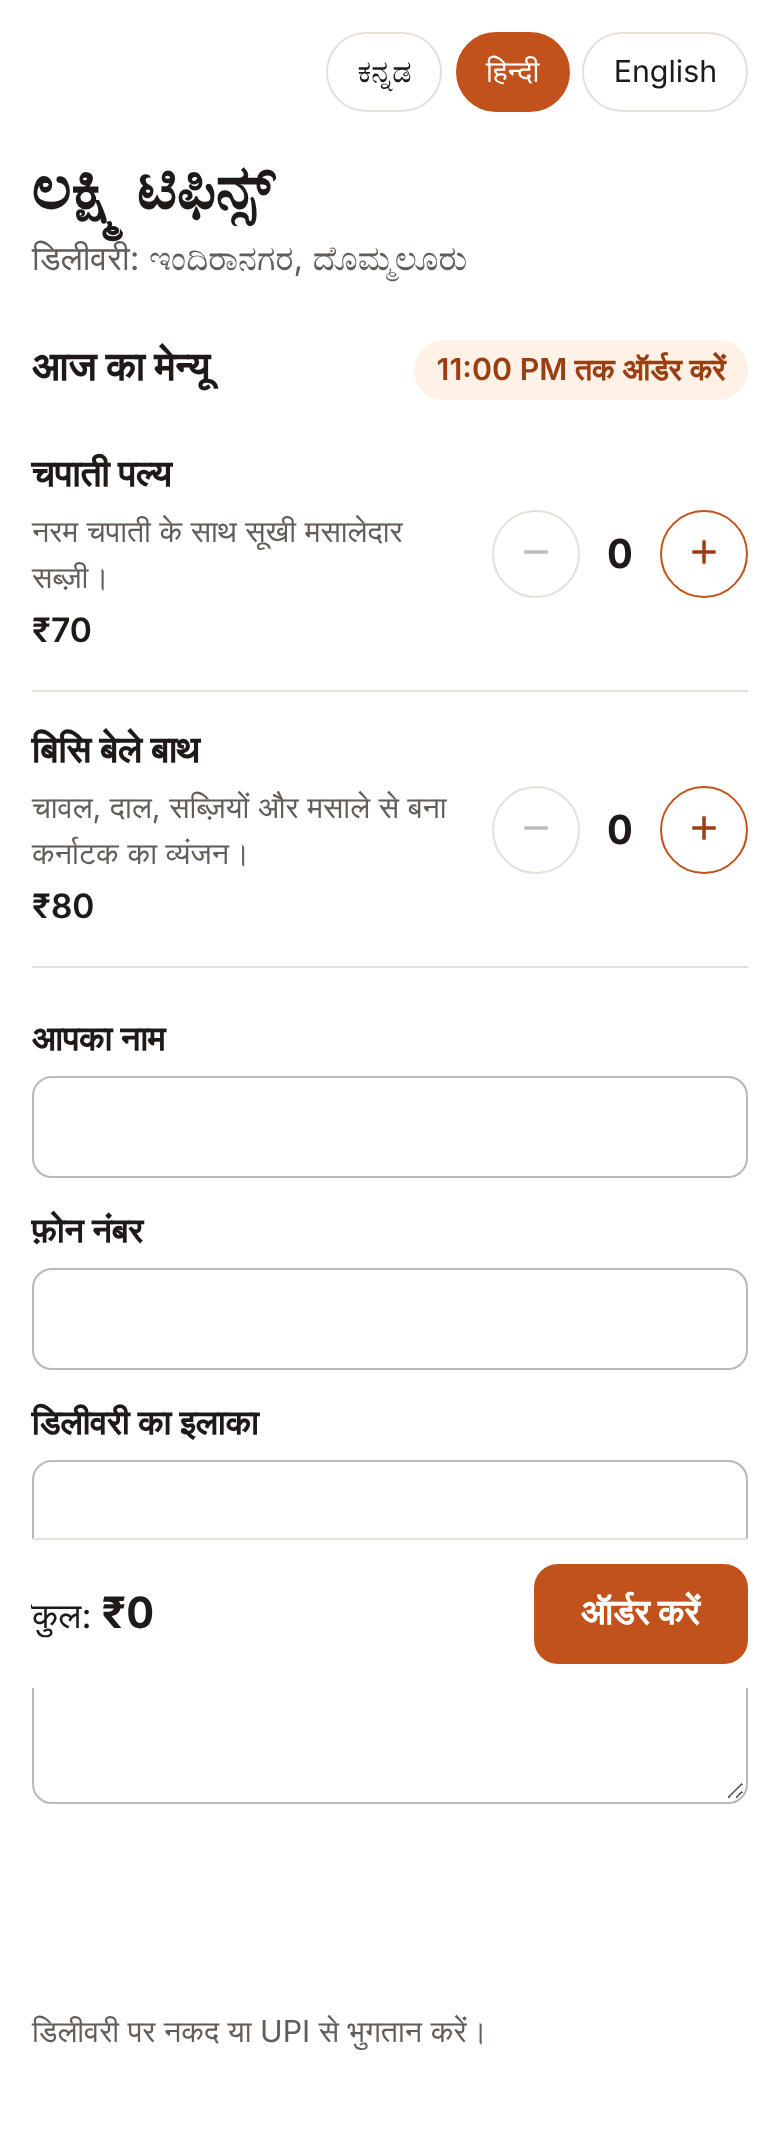
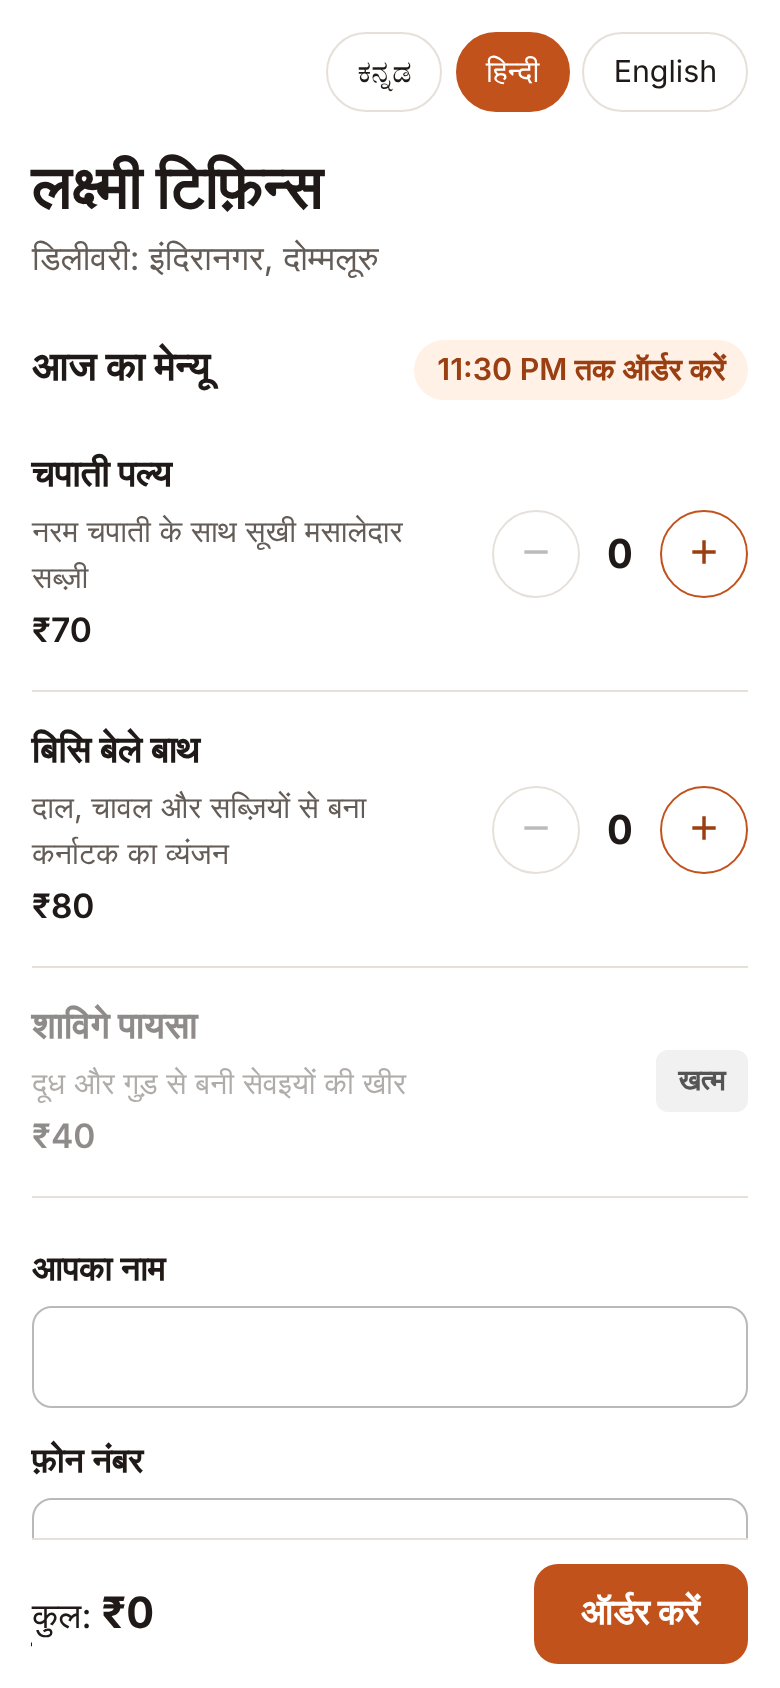
Translate kitchen name and area, add the Lakshmi Tiffins demo seed, fix empty replies
- Kitchen name and delivery area are transliterated into each language when saved
- npm run db:seed-demo: a live kitchen with orders in three languages and a ready owner link
- /owner?t=<token> opens an existing conversation
- Raise the reply budget to 8000 tokens: thinking used up 1024 and long Kannada replies came back empty
- The fallback reply no longer stores two assistant turns in a row

Claude-Session: https://claude.ai/code/session_01JKYxyCnycQzfusRv2axJLg

diff --git a/src/lib/translate.ts b/src/lib/translate.ts
@@ -71,3 +71,52 @@ export async function translateDishes(model: ModelCall, names: string[]): Promis
     return empty;
   }
 }
+
+export type KitchenTranslations = Partial<Record<Lang, { name: string; delivery_area: string }>>;
+
+// The kitchen's name and delivery area, written in each language's script so every customer can read them.
+// Names and place names are transliterated, never translated: "Lakshmi Tiffins" stays Lakshmi Tiffins.
+// On failure it returns {}, and the page shows what the owner said.
+export async function translateKitchen(model: ModelCall, name: string, deliveryArea: string): Promise<KitchenTranslations> {
+  const perLanguage = {
+    type: "object",
+    properties: {
+      name: { type: "string", description: "The kitchen name in this language's script, transliterated." },
+      delivery_area: { type: "string", description: "The delivery areas in this language's script, transliterated, comma separated." },
+    },
+    required: ["name", "delivery_area"],
+  };
+  try {
+    const response = await model({
+      system:
+        "You write a home kitchen's name and delivery areas in other Indian scripts. Transliterate; never translate. " +
+        '"Lakshmi Tiffins" in Hindi is "लक्ष्मी टिफ़िन्स", and "Indiranagar" is "इंदिरानगर". In English, use the usual English spelling.',
+      messages: [{ role: "user", content: `Call save_kitchen_text.\nName: ${name}\nDelivery areas: ${deliveryArea}` }],
+      tools: [
+        {
+          name: "save_kitchen_text",
+          description: "Save the kitchen name and delivery areas in every language.",
+          input_schema: {
+            type: "object",
+            properties: Object.fromEntries(LANGUAGES.map((l) => [l.code, perLanguage])),
+            required: LANGUAGES.map((l) => l.code),
+          },
+        },
+      ],
+      maxTokens: 600,
+    });
+    const call = response.content.find((b) => b.type === "tool_use");
+    const input = (call?.type === "tool_use" ? call.input : null) as Record<string, { name?: unknown; delivery_area?: unknown }> | null;
+    const result: KitchenTranslations = {};
+    for (const { code } of LANGUAGES) {
+      const entry = input?.[code];
+      if (typeof entry?.name === "string" && entry.name.trim() && typeof entry.delivery_area === "string") {
+        result[code] = { name: entry.name.trim().slice(0, 160), delivery_area: entry.delivery_area.trim().slice(0, 255) };
+      }
+    }
+    return result;
+  } catch (error) {
+    console.error("Kitchen translation failed", error);
+    return {};
+  }
+}

diff --git a/src/lib/tools.ts b/src/lib/tools.ts
@@ -4,7 +4,7 @@ import { checkDomain, isValidDomain, registerDomain } from "./godaddy";
 import { LANGUAGES, isLang } from "./i18n";
 import type { ModelCall, ToolDefinition } from "./model";
 import { nowInZone } from "./time";
-import { translateDishes } from "./translate";
+import { translateDishes, translateKitchen } from "./translate";
 
 // A tool is three things: a description Claude reads, a flag saying whether the owner must confirm it,
 // and a plain function that does the work. Claude never touches the database or GoDaddy; it can only
@@ -109,7 +109,11 @@ const createKitchen: Tool = {
     }));
     if (ctx.dryRun) return held({ name, delivery_area: area, capacity_per_day: capacity, dishes });
 
-    const translations = await translateDishes(ctx.model, dishes.map((d) => d.name));
+    // Both translations run at the same time to keep her wait short.
+    const [translations, kitchenText] = await Promise.all([
+      translateDishes(ctx.model, dishes.map((d) => d.name)),
+      translateKitchen(ctx.model, name, area),
+    ]);
 
     const conn = await db().getConnection();
     try {
@@ -122,8 +126,8 @@ const createKitchen: Tool = {
         slug = `${base}-${n}`;
       }
       const [kitchen] = await conn.query<ResultSetHeader>(
-        "INSERT INTO kitchens (slug, name, owner_language, delivery_area, capacity_per_day, status) VALUES (?, ?, ?, ?, ?, 'draft')",
-        [slug, name, input.owner_language, area, capacity],
+        "INSERT INTO kitchens (slug, name, owner_language, delivery_area, translations, capacity_per_day, status) VALUES (?, ?, ?, ?, ?, ?, 'draft')",
+        [slug, name, input.owner_language, area, JSON.stringify(kitchenText), capacity],
       );
       const saved: { menu_item_id: number; name: string; price: number }[] = [];
       for (const [i, dish] of dishes.entries()) {

diff --git a/src/lib/agent.ts b/src/lib/agent.ts
@@ -181,8 +181,11 @@ export async function handleOwnerTurn(token: string | null, turn: OwnerTurn, mod
       messages: convo.messages,
       tools: toolDefinitions,
     });
-    // The API rejects an empty assistant turn, so an empty answer is stored as a short text.
-    convo.messages.push({ role: "assistant", content: response.content.length ? response.content : [{ type: "text", text: "…" }] });
+    // Only text and tool calls count as an answer; thinking alone (for example when Claude runs out of
+    // tokens) is not stored, because the fallback below then closes the turn instead.
+    const answered = response.content.some((b) => (b.type === "text" && b.text) || b.type === "tool_use");
+    if (!answered) break;
+    convo.messages.push({ role: "assistant", content: response.content });
 
     const calls = response.content.filter((b): b is ToolUseBlock => b.type === "tool_use");
     if (calls.length === 0) {
@@ -216,8 +219,14 @@ export async function handleOwnerTurn(token: string | null, turn: OwnerTurn, mod
 
   if (!reply) {
     reply = "Sorry, I could not finish that. Please say it again in a few words.";
-    // Close the conversation on an assistant turn so the next request is valid.
-    convo.messages.push({ role: "assistant", content: [{ type: "text", text: reply }] });
+    // Close the conversation on an assistant turn so the next request is valid, without ever storing two
+    // assistant turns in a row.
+    const last = convo.messages[convo.messages.length - 1];
+    if (last?.role === "assistant" && !last.content.some((b) => b.type === "tool_use")) {
+      last.content = [...last.content, { type: "text", text: reply }];
+    } else {
+      convo.messages.push({ role: "assistant", content: [{ type: "text", text: reply }] });
+    }
     convo.pending = null;
   }
 

diff --git a/src/lib/model.ts b/src/lib/model.ts
@@ -39,13 +39,20 @@ export const callClaude: ModelCall = async (request) => {
   client ??= new Anthropic(); // reads ANTHROPIC_API_KEY from the environment
   const response = await client.messages.create({
     model: process.env.CLAUDE_MODEL ?? "claude-sonnet-5-5",
-    max_tokens: request.maxTokens ?? 1024,
+    // The budget covers Claude's thinking as well as its reply. 1024 was too small: a long cooking list
+    // in Kannada ran out after the thinking, and the reply came back empty.
+    max_tokens: request.maxTokens ?? 8000,
     system: request.system,
     messages: request.messages,
     tools: request.tools,
     ...(request.forceTool ? { tool_choice: { type: "tool" as const, name: request.forceTool } } : {}),
   });
-  // Keep only the two block types we store and replay.
+  if (!response.content.some((b) => (b.type === "text" && b.text) || b.type === "tool_use")) {
+    console.warn("Claude returned no text or tool call", { stop_reason: response.stop_reason, blocks: response.content.map((b) => b.type) });
+  }
+  // Keep only text and tool calls. Claude's thinking blocks are dropped on purpose: the API accepts them
+  // back only with the exact system prompt they were made with, and ours changes every round because it
+  // carries the current time and today's orders.
   const content: ModelResponse["content"] = [];
   for (const block of response.content) {
     if (block.type === "text" && block.text) content.push({ type: "text", text: block.text });

diff --git a/tests/agent.test.ts b/tests/agent.test.ts
@@ -16,6 +16,10 @@ const fakeModel: ModelCall = async (req) => {
     return { content: [{ type: "tool_use", id: "tr", name: "save_translations",
       input: { dishes: names.map((n) => ({ en: { name: n, description: "test" }, hi: { name: `${n} (hi)`, description: "t" }, kn: { name: `${n} (kn)`, description: "t" } })) } }] };
   }
+  if (req.tools.length === 1 && req.tools[0].name === "save_kitchen_text") {
+    const text = { name: "kitchen", delivery_area: "area" };
+    return { content: [{ type: "tool_use", id: "kt", name: "save_kitchen_text", input: { en: text, hi: { ...text, name: "किचन" }, kn: text } }] };
+  }
   const next = script.shift();
   assert.ok(next, "the agent called the model more times than the test expected");
   return next(req);
@@ -109,6 +113,9 @@ async function main() {
   const raw = (items as { translations: unknown }[])[0].translations;
   const tr = typeof raw === "string" ? JSON.parse(raw) : (raw as { kn: { name: string } });
   assert.equal(tr.kn.name, "ಚಪಾತಿ ಪಲ್ಯ (kn)");
+  const [kt] = await db().query("SELECT translations FROM kitchens WHERE id = ?", [kitchenId]);
+  const kraw = (kt as { translations: unknown }[])[0].translations;
+  assert.equal((typeof kraw === "string" ? JSON.parse(kraw) : kraw).hi.name, "किचन");
   ok("on yes, the kitchen and dishes are saved as a draft, with translations");
 
   // 4. Domains: one taken, one free (simulated without keys), then register is held and she says no.

diff --git a/src/lib/menu.ts b/src/lib/menu.ts
@@ -26,14 +26,18 @@ export type MenuView = {
 // Returns null when the kitchen does not exist or is not live yet.
 export async function getTodayMenu(slug: string, lang: Lang): Promise<MenuView | null> {
   const [kitchens] = await db().query<RowDataPacket[]>(
-    "SELECT id, name, delivery_area, timezone FROM kitchens WHERE slug = ? AND status = 'live'",
+    "SELECT id, name, delivery_area, translations, timezone FROM kitchens WHERE slug = ? AND status = 'live'",
     [slug],
   );
   const kitchen = kitchens[0];
   if (!kitchen) return null;
 
+  const kitchenText = parseJson<Partial<Record<Lang, { name?: string; delivery_area?: string }>>>(kitchen.translations, {})[lang];
   const view: MenuView = {
-    kitchen: { name: kitchen.name, deliveryArea: kitchen.delivery_area },
+    kitchen: {
+      name: kitchenText?.name || kitchen.name, // fall back to what the owner said
+      deliveryArea: kitchenText?.delivery_area || kitchen.delivery_area,
+    },
     state: "none",
     cutoffTime: null,
     dishes: [],

diff --git a/src/app/owner/OwnerChat.tsx b/src/app/owner/OwnerChat.tsx
@@ -124,8 +124,15 @@ export default function OwnerChat() {
   const t = LABELS[lang];
 
   // Restore the conversation.
+  // A link like /owner?t=<token> opens that conversation (the demo seed prints one). The token is then
+  // removed from the address bar so it isn't shared by accident.
   useEffect(() => {
-    token.current = read(TOKEN_KEY);
+    const fromLink = new URLSearchParams(window.location.search).get("t");
+    if (fromLink && /^[0-9a-f-]{36}$/.test(fromLink)) {
+      write(TOKEN_KEY, fromLink);
+      window.history.replaceState(null, "", window.location.pathname);
+    }
+    token.current = fromLink ?? read(TOKEN_KEY);
   }, []);
   useEffect(() => {
     let cancelled = false;

diff --git a/README.md b/README.md
@@ -172,7 +172,7 @@ The owner and each customer use their own language, and neither needs to know th
 | Owner speech to text | The browser's speech recognition, set to `kn-IN`, `hi-IN` or `en-IN` |
 | Understanding her | Claude, including mixed-language speech |
 | Replies | Claude replies in her language; the browser reads it aloud with a voice installed on her phone |
-| Dishes | Translated by Claude when saved, stored per language |
+| Dishes, kitchen name, delivery area | Translated by Claude when saved, stored per language; names and places are transliterated |
 | Menu page labels | A small dictionary per language in `src/lib/i18n.ts` |
 | Customer notes | Stored as written, translated into her language in the cooking list |
 
@@ -182,7 +182,7 @@ Adding a language means one entry in the language list and one dictionary of lab
 
 | Table | Holds |
 | --- | --- |
-| `kitchens` | Name, web address slug, owner's language, delivery area, daily capacity, time zone, domain, `draft` or `live` |
+| `kitchens` | Name, web address slug, owner's language, delivery area, their translations, daily capacity, time zone, domain, `draft` or `live` |
 | `menu_items` | Each dish as the owner said it, its usual price, and translations as JSON |
 | `daily_menus` | One row per kitchen per day: cut-off time and `open`, `closed` or `holiday` |
 | `daily_menu_items` | Which dishes are on a day's menu, that day's price, and whether sold out |
@@ -225,7 +225,8 @@ You need Node.js 22 or later, a MySQL or MariaDB database, and a Claude API key 
 npm install
 cp .env.example .env      # then fill in the values below
 npm run db:migrate        # creates the tables
-npm run db:seed           # optional: a demo kitchen with today's menu
+npm run db:seed           # optional: a simple demo kitchen with today's menu
+npm run db:seed-demo      # optional: Lakshmi Tiffins, live, with orders in three languages
 npm run dev
 ```
 
@@ -239,7 +240,8 @@ npm run dev
 Then open:
 
 - http://localhost:3000/owner to launch a kitchen by talking to the assistant
-- http://localhost:3000/k/ammas-kitchen for the seeded demo kitchen's menu
+- http://localhost:3000/k/ammas-kitchen for the simple demo kitchen's menu
+- After `db:seed-demo`: http://localhost:3000/k/lakshmi-tiffins for Lakshmi's menu, and http://localhost:3000/owner?t=11a6b5e1-d4e1-4000-8000-000000000001 to talk to the assistant as Lakshmi. It already has six orders (one more cancelled), so you can ask straight away for the cooking list. Re-run the seed to reset.
 
 Voice input needs Chrome, and the microphone only works on `localhost` or an HTTPS address. Never commit `.env`; it is already in `.gitignore`.
 
@@ -264,13 +266,12 @@ The app is built for GoDaddy Node.js Hosting, which runs Next.js as a persistent
 
 ## 13. Status and limitations
 
-**Working:** launch by conversation, menu and prices, kitchen save with translations, domain checks, publishing, daily menu, sold out, cancelling, orders, the cooking list, three languages, and voice in and out.
+**Working:** launch by conversation, menu and prices, kitchen save with translations of dishes, name and area, domain checks, publishing, daily menu, sold out, cancelling, orders, the cooking list, three languages, and voice in and out.
 
 **Known limitations:**
 
 - **Domains:** availability is simulated until GoDaddy test keys are added. Registration reserves the name in the app but does not buy it, and the assistant says "reserved", not "bought".
 - **No owner login yet.** Whoever holds a conversation's token can act for that kitchen. This is fine for a demo, not for real use.
-- **Kitchen name and delivery area are not translated yet.** Only dishes are, so a Hindi reader sees the kitchen name in Kannada.
 - **Voice quality depends on the phone.** Speech recognition accuracy and the availability of Kannada and Hindi voices vary by device.
 - **Replies take 1 to 8 seconds,** because each turn may run several tool rounds. Streaming would make it feel faster.
 
@@ -278,7 +279,6 @@ The app is built for GoDaddy Node.js Hosting, which runs Next.js as a persistent
 
 - Owner sign-in by phone number and one-time code
 - Real domain purchase through GoDaddy, and the domain pointing straight at her page
-- Translating the kitchen name and delivery area
 - Streaming replies so she hears the first words sooner
 - More languages: Tamil, Telugu, Marathi
 - Weekly summaries: what sold, what ran out, which areas order most
